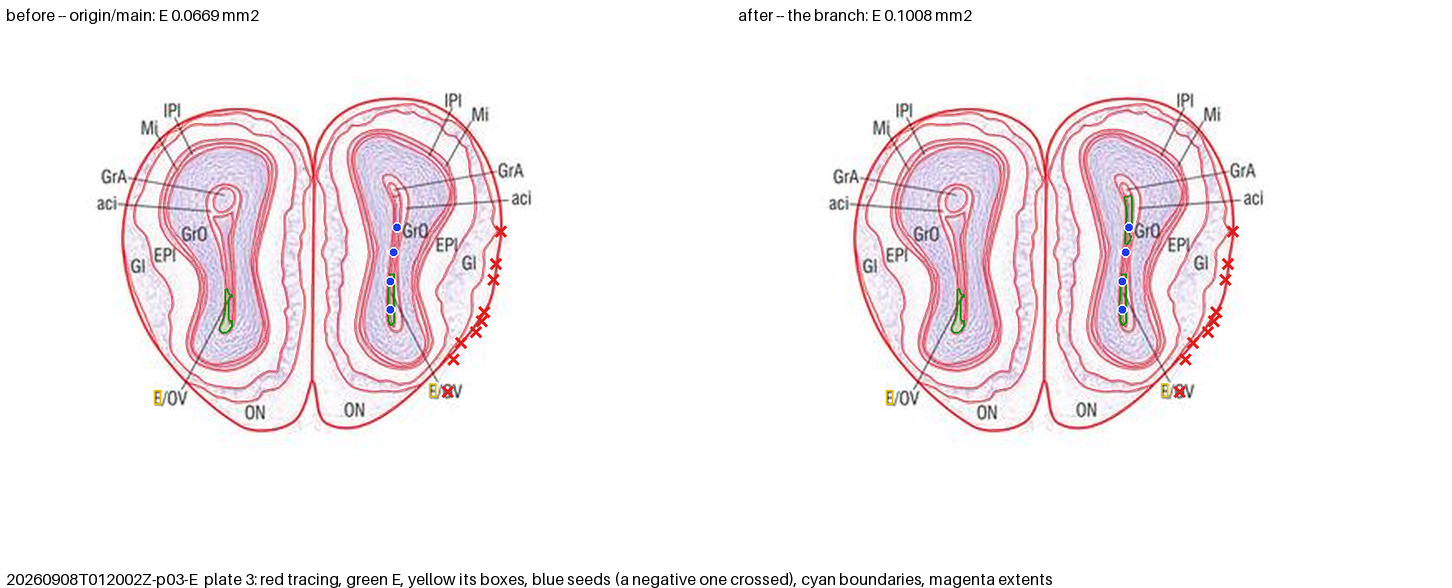
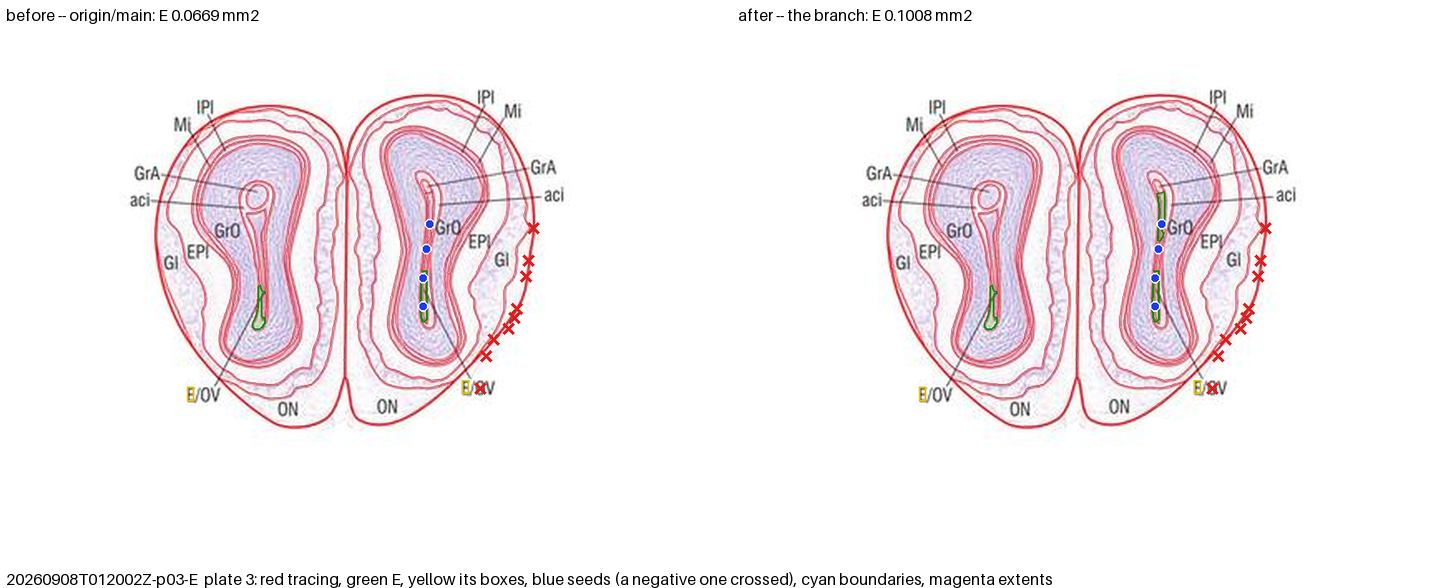
Both corrections' pictures and counts come from the head they will land on
Nothing is re-cut here: the database, the extents and every file cut from them
are the merge's, and the whole run of checks was made again on it -- every
--check clean, tests/python 64 passed, npx playwright 109 passed,
boundary_edges_shared_exactly 1.0, structure_plate_entries 3,118, polygons 6,013
over 168,751 points, seeds_moved_by_hand 32. The per-(plate, abbr) diff against
origin/main is twelve entries: E, GrA and GrO on plate 3, RAPir and eight others
on plate 28, and nothing else in the atlas moves.

Two things were still counted from bases the branch has moved past, and this
counts them from the branch. The RAPir entry's whole-atlas figures were written
before #108 took a label off plate 16: points go 168,729 to 168,740 on main as
it stands, not 168,740 to 168,751, and faces named by one abbreviation 3,516 to
3,518, not 3,515 to 3,517. Its area figures, its volumes and its traced share
are unchanged, being the plate's own. The E entry's seeds_moved_by_hand is 29 to
32 rather than 26 to 29: RAPir's three rows are already down when E's three are
written, the two corrections riding one branch and RAPir landing first. Its
polygons 6,012 to 6,013 and points 168,740 to 168,751 were already counted that
way and stand, and they are what METHODS carries. The RAPir entry's test count
goes 63 to 64, which is the suite on this head.

qc/chk_corr_20260908T012002Z-p03-E_site.png and
qc/chk_corr_20260908T142315Z-p28-RAPir_site.png are re-made by inspect --qc on
[…]

Changed region(s): [[0.5579, 0.1531, 0.8988, 0.7347], [0.062, 0.1531, 0.4029, 0.7347]]

diff --git a/CHANGELOG.md b/CHANGELOG.md
@@ -243,11 +243,13 @@ carries a `version` block naming the release its derived fields were built for.
   Three (plate, region) entries move in the whole-atlas re-cut, all on plate 3.
   `boundary_edges_shared_exactly` stays 1.0, `structure_plate_entries` stays 3,118, the
   coloring is unchanged at 691 regions, polygons go 6,012 to 6,013, points 168,740 to
-  168,751 and `seeds_moved_by_hand` 26 to 29. Three more olfactory-bulb structures move in
-  the volume with their areas untouched — `IPl` +0.0052, `aci` +0.0017, `EPl` +0.0005 mm³,
-  and `GrA` +0.0021 though its area falls — the label volume being interpolated between
-  plates, so a boundary that moves on 3 redistributes voxels in the slabs either side.
-  METHODS takes the polygon and point counts.
+  168,751 and `seeds_moved_by_hand` 29 to 32 — counted from the base the `RAPir` entry
+  below leaves, the two corrections riding one branch and that one landing first. Three
+  more olfactory-bulb structures move in the volume with their areas untouched — `IPl`
+  +0.0052, `aci` +0.0017, `EPl` +0.0005 mm³, and `GrA` +0.0021 though its area falls — the
+  label volume being interpolated between plates, so a boundary that moves on 3
+  redistributes voxels in the slabs either side. METHODS takes the polygon and point
+  counts, 6,013 over 168,751, which are the two corrections' together.
 
   The correction says the region "should better mirror the left hemisphere", and there is a
   second reading of that this does not take. The ventral spindle is drawn with a hairline
@@ -298,10 +300,10 @@ carries a `version` block naming the release its derived fields were built for.
   dimensions `unnamed_fraction` goes 0.0348 to **0.0346**, and thirteen structures' volumes
   move, `1` coming out in six mesh components rather than seven and the other eleven in the
   fourth decimal. `structure_plate_entries` stays 3,118, polygons 6,012 and the coloring 691
-  regions in 631 patches; points go 168,740 to 168,751, faces named by one abbreviation
-  3,515 to 3,517, seeds moved by hand 26 to 29, `section_covered_mean` 0.9483 to 0.9484,
+  regions in 631 patches; points go 168,729 to 168,740, faces named by one abbreviation
+  3,516 to 3,518, seeds moved by hand 26 to 29, `section_covered_mean` 0.9483 to 0.9484,
   `label_inside_its_own_region` 0.9776 either way, and **`boundary_edges_shared_exactly`
-  stays 1.0**. 63 Python tests and 109 browser tests pass, and `--check` on the tables,
+  stays 1.0**. 64 Python tests and 109 browser tests pass, and `--check` on the tables,
   groups, colors, face maps and pages is clean.
 - **A correction's run ends green when its pull request does.** The last step of
   `.github/workflows/apply-correction.yml` waited on CI with `gh pr checks --watch
